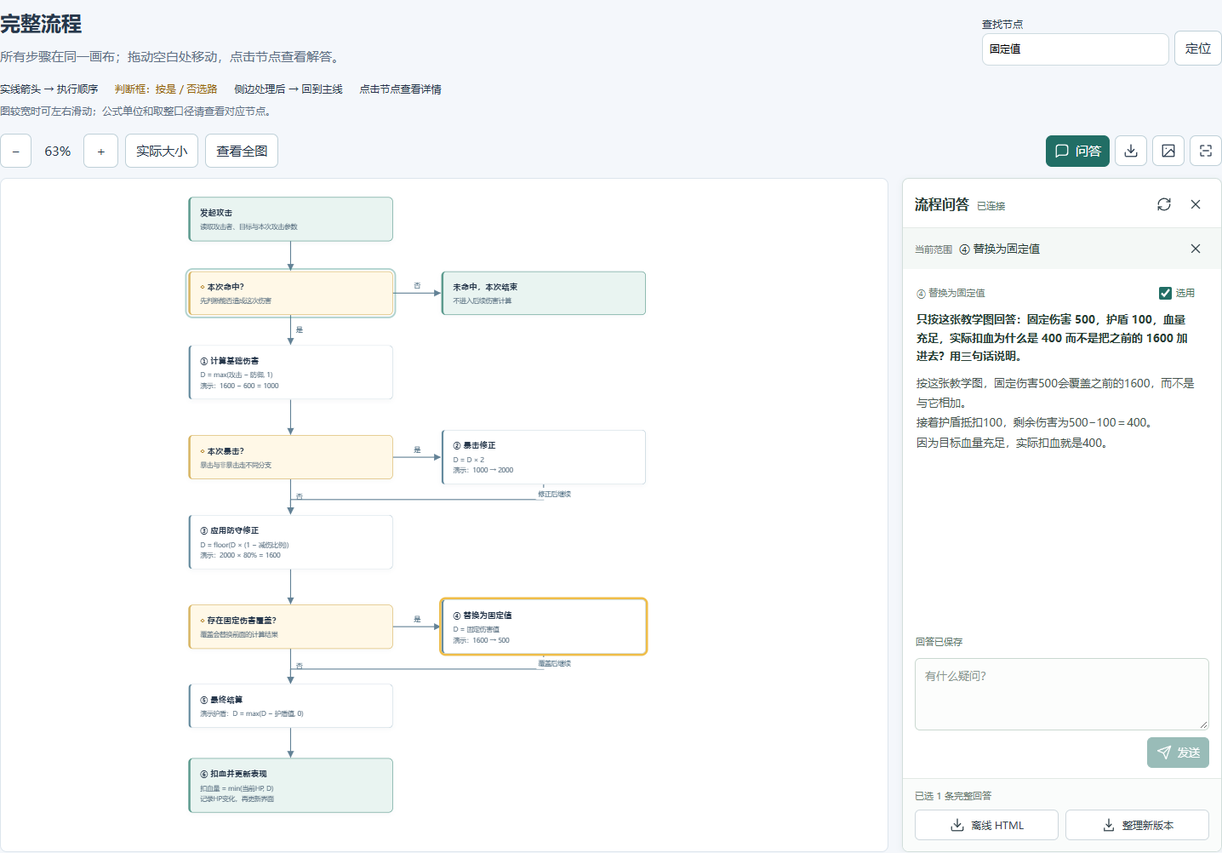
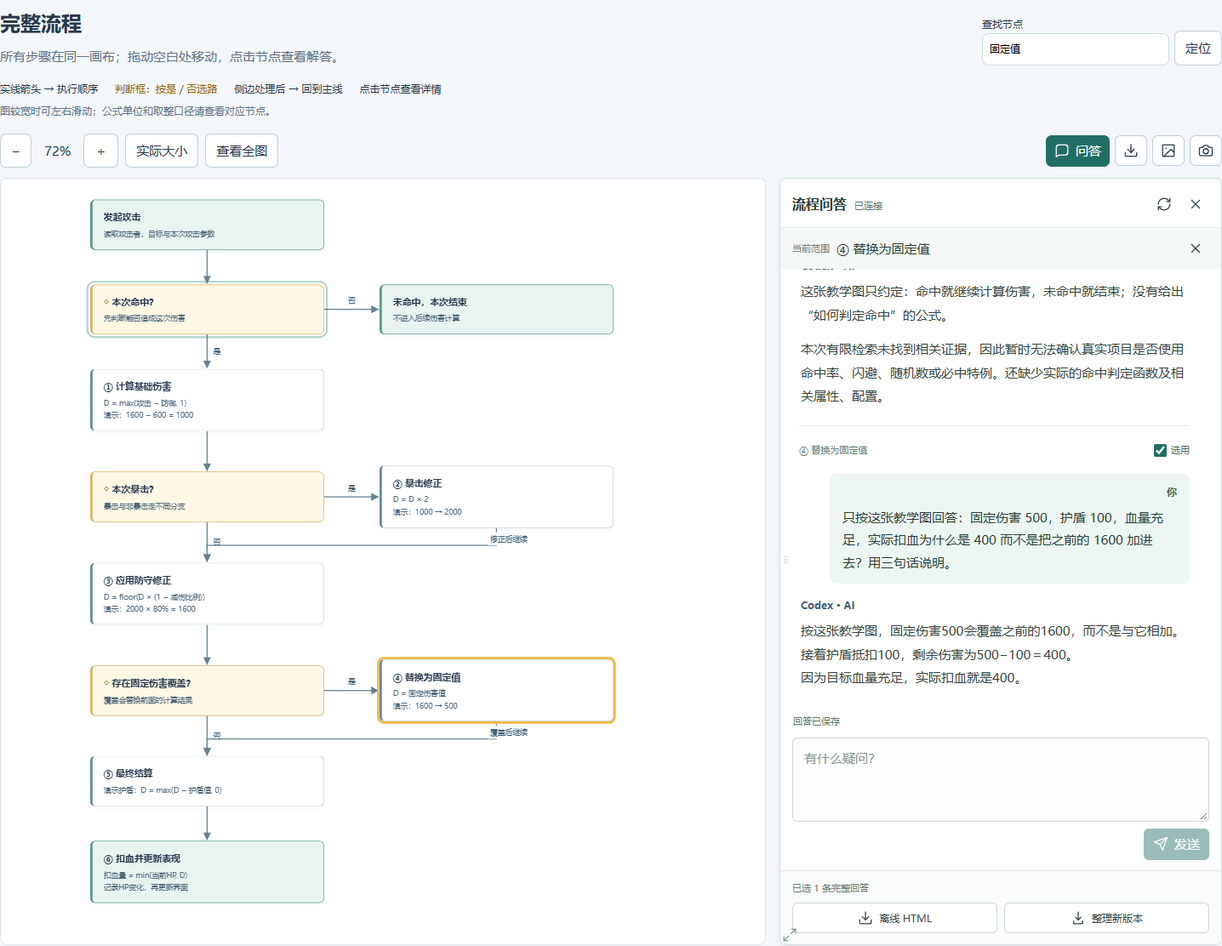
Improve flow zoom and readable resizable in-page Q&A

diff --git a/project-handbook/assets/flow-assistant.js b/project-handbook/assets/flow-assistant.js
@@ -34,7 +34,9 @@
       send: ['m22 2-7 20-4-9-9-4Z', 'M22 2 11 13'],
       download: ['M21 15v4a2 2 0 0 1-2 2H5a2 2 0 0 1-2-2v-4', 'm7 10 5 5 5-5', 'M12 15V3'],
       image: ['M4 3h16a1 1 0 0 1 1 1v16a1 1 0 0 1-1 1H4a1 1 0 0 1-1-1V4a1 1 0 0 1 1-1Z', 'm21 15-5-5L5 21', 'M8.5 8.5h.01'],
-      scan: ['M4 9V5a1 1 0 0 1 1-1h4', 'M15 4h4a1 1 0 0 1 1 1v4', 'M20 15v4a1 1 0 0 1-1 1h-4', 'M9 20H5a1 1 0 0 1-1-1v-4', 'M8 12h8'],
+      camera: ['M14.5 4h-5L7 7H4a2 2 0 0 0-2 2v9a2 2 0 0 0 2 2h16a2 2 0 0 0 2-2V9a2 2 0 0 0-2-2h-3z', 'M16 13a4 4 0 1 1-8 0 4 4 0 0 1 8 0'],
+      grip: ['M9 5h.01', 'M9 12h.01', 'M9 19h.01', 'M15 5h.01', 'M15 12h.01', 'M15 19h.01'],
+      resize: ['M15 3h6v6', 'm21 3-7 7', 'M3 15v6h6', 'm3 21 7-7'],
       refresh: ['M3 12a9 9 0 0 1 15.36-6.36L21 8', 'M21 3v5h-5', 'M21 12a9 9 0 0 1-15.36 6.36L3 16', 'M8 16H3v5'],
       compile: ['M12 3v12', 'm8 11 4 4 4-4', 'M5 17v4h14v-4'],
       stop: ['M6 6h12v12H6z']
@@ -47,6 +49,7 @@
     }
     function icon(name) {
       const svg = document.createElementNS('http://www.w3.org/2000/svg', 'svg');
+      svg.dataset.icon = name;
       for (const [key, value] of Object.entries({viewBox: '0 0 24 24', width: 18, height: 18, fill: 'none', stroke: 'currentColor', 'stroke-width': 1.8, 'stroke-linecap': 'round', 'stroke-linejoin': 'round', 'aria-hidden': 'true'})) svg.setAttribute(key, value);
       for (const d of icons[name]) {
         const path = document.createElementNS(svg.namespaceURI, 'path'); path.setAttribute('d', d); svg.append(path);
@@ -76,13 +79,16 @@
     const toggle = button('flow-qa-toggle', '问答', 'chat', true);
     const share = button('flow-qa-share', '导出离线 HTML', 'download');
     const pngFull = button('flow-qa-png-full', '导出全图 PNG', 'image');
-    const pngView = button('flow-qa-png-view', '导出当前视图 PNG', 'scan');
+    const pngView = button('flow-qa-png-view', '导出当前视图 PNG', 'camera');
     tools.append(toggle, share, pngFull, pngView); toolbar.append(tools);
     const shell = element('div', 'flow-qa-shell');
     viewportElement.before(shell); shell.append(viewportElement);
     const aside = element('aside', 'flow-qa-panel');
     aside.id = 'flow-qa-panel'; aside.hidden = true; aside.setAttribute('aria-label', '流程问答');
     toggle.setAttribute('aria-controls', aside.id); toggle.setAttribute('aria-expanded', 'false');
+    const widthHandle = button('flow-qa-resize-width', '拖动调整问答宽度', 'grip');
+    const cornerHandle = button('flow-qa-resize-corner', '拖动调整问答大小', 'resize');
+    const topHandle = button('flow-qa-resize-top', '拖动调整问答高度', 'grip');
     const head = element('div', 'flow-qa-header');
     const heading = element('div', 'flow-qa-heading');
     const badge = element('span', 'flow-qa-badge', live ? '检查中' : '离线副本');
@@ -111,7 +117,50 @@
     const compile = button('flow-qa-compile', '整理新版本', 'compile', true);
     compile.title = '将选中的回答整理成完整版本，保留原版';
     const footerActions = element('div', 'flow-qa-footer-actions'); footerActions.append(exportButton, compile);
-    footer.append(count, footerActions); aside.append(head, context, transcript, result, status, form, footer); shell.append(aside);
+    footer.append(count, footerActions); aside.append(head, context, transcript, result, status, form, footer, widthHandle, cornerHandle, topHandle); shell.append(aside);
+    let panelWidth = null, panelHeight = null, mobileHeight = null;
+    const isNarrow = () => window.matchMedia('(max-width:800px)').matches;
+    function resizePanel(newWidth, newHeight) {
+      if (isNarrow()) {
+        if (newHeight !== undefined) mobileHeight = Math.max(Math.min(440, innerHeight - 16), Math.min(innerHeight - 16, newHeight));
+        shell.style.setProperty('--flow-qa-mobile-height', mobileHeight === null ? '86dvh' : mobileHeight + 'px');
+      } else {
+        const maximum = Math.max(320, shell.clientWidth - 276);
+        if (newWidth !== undefined) panelWidth = newWidth;
+        if (newHeight !== undefined) panelHeight = newHeight;
+        shell.style.setProperty('--flow-qa-width', Math.max(320, Math.min(maximum, panelWidth ?? 520)) + 'px');
+        shell.style.setProperty('--flow-qa-height', Math.max(480, Math.min(1400, panelHeight ?? innerHeight * .82)) + 'px');
+      }
+    }
+    for (const [handle, kind] of [[widthHandle, 'width'], [cornerHandle, 'corner'], [topHandle, 'top']]) {
+      let resizing = null;
+      handle.addEventListener('pointerdown', event => {
+        if (event.button !== 0) return;
+        event.preventDefault();
+        const bounds = aside.getBoundingClientRect();
+        resizing = {x: event.clientX, y: event.clientY, width: bounds.width, height: bounds.height};
+        handle.setPointerCapture(event.pointerId); shell.classList.add('flow-qa-resizing');
+      });
+      handle.addEventListener('pointermove', event => {
+        if (!resizing) return;
+        resizePanel(kind === 'top' ? undefined : resizing.width + resizing.x - event.clientX,
+          kind === 'width' ? undefined : resizing.height + (kind === 'top' ? resizing.y - event.clientY : event.clientY - resizing.y));
+      });
+      const end = () => {resizing = null; shell.classList.remove('flow-qa-resizing');};
+      handle.addEventListener('pointerup', end); handle.addEventListener('pointercancel', end); handle.addEventListener('lostpointercapture', end);
+      handle.addEventListener('keydown', event => {
+        const horizontal = kind !== 'top' && ['ArrowLeft', 'ArrowRight'].includes(event.key);
+        const vertical = kind !== 'width' && ['ArrowUp', 'ArrowDown'].includes(event.key);
+        if (!horizontal && !vertical) return;
+        event.preventDefault();
+        const bounds = aside.getBoundingClientRect();
+        resizePanel(horizontal ? bounds.width + (event.key === 'ArrowLeft' ? 32 : -32) : undefined,
+          vertical ? bounds.height + ((event.key === (kind === 'top' ? 'ArrowUp' : 'ArrowDown')) ? 32 : -32) : undefined);
+      });
+    }
+    window.addEventListener('resize', () => resizePanel());
+    const shellObserver = new ResizeObserver(() => resizePanel()); shellObserver.observe(shell);
+    resizePanel();
     const dialog = document.getElementById('detail');
     if (dialog) {
       const askNode = button('flow-qa-ask-node flow-qa-primary', '追问这个节点', 'chat', true);
@@ -132,8 +181,15 @@
     }
     function readinessSummary() {
       if (connected) return '已连接本地问答';
-      const summary = available ? 'Codex 可用；首个问题将尝试连接' : '问答暂不可用；可阅读与导出';
-      return summary + (backendMessage ? '。' + backendMessage : '');
+      const problem = connectionProblem();
+      if (problem) return problem;
+      return available ? 'Codex 可用；首个问题将尝试连接' : '问答暂不可用；可阅读与导出';
+    }
+    function connectionProblem() {
+      if (/sign.?in|log.?in|auth/i.test(backendMessage)) return '请先在本机 Codex 登录，再重试提问。';
+      if (/cannot verify|cannot enforce|unavailable|no model turn/i.test(backendMessage)) return '暂时无法建立安全连接；请检查本机 Codex 后重试。已有内容仍可阅读和导出。';
+      if (/timed out|unexpectedly|failed|rejected/i.test(backendMessage)) return 'Codex 连接暂时失败，请稍后重试。已有内容仍可阅读和导出。';
+      return '';
     }
     function updateControls() {
       const busy = !!active || externalBusy;
@@ -165,6 +221,21 @@
       nodeId = node ? node.id : null;
       contextText.textContent = node ? node.title : '整个流程'; clearContext.hidden = !node;
     }
+    const markdown = typeof window.markdownit === 'function' ? window.markdownit({html: false, linkify: false, breaks: true}) : null;
+    if (markdown) {
+      // Model output can format text, but cannot load images, links or raw HTML.
+      markdown.renderer.rules.image = (tokens, index) => markdown.utils.escapeHtml(tokens[index].content);
+      markdown.renderer.rules.link_open = () => '<span>';
+      markdown.renderer.rules.link_close = () => '</span>';
+      markdown.renderer.rules.table_open = () => '<div class="flow-qa-table"><table>';
+      markdown.renderer.rules.table_close = () => '</table></div>';
+    }
+    function renderAnswer(text) {
+      const answer = element('div', 'flow-qa-answer');
+      if (markdown) answer.innerHTML = markdown.render(text).trim();
+      else answer.textContent = text;
+      return answer;
+    }
     function renderEntries(scroll = false) {
       const nearBottom = transcript.scrollHeight - transcript.scrollTop - transcript.clientHeight < 90;
       const oldScroll = transcript.scrollTop;
@@ -184,7 +255,11 @@
         } else {
           meta.append(element('span', 'flow-qa-entry-state', entry.status === 'streaming' ? '回答中' : entry.status === 'cancelled' ? '已停止' : '未完成'));
         }
-        article.append(meta, element('h4', 'flow-qa-question', entry.question), element('div', 'flow-qa-answer', entry.answer || (entry.status === 'streaming' ? '…' : '暂无回答')));
+        const userMessage = element('div', 'flow-qa-message flow-qa-message-user');
+        userMessage.append(element('span', 'flow-qa-role flow-qa-role-user', '你'), element('h4', 'flow-qa-question', entry.question));
+        const assistantMessage = element('div', 'flow-qa-message flow-qa-message-assistant');
+        assistantMessage.append(element('span', 'flow-qa-role flow-qa-role-assistant', 'Codex · AI'), renderAnswer(entry.answer || (entry.status === 'streaming' ? '正在思考…' : '暂无回答')));
+        article.append(meta, userMessage, assistantMessage);
         transcript.append(article);
       }
       transcript.scrollTop = scroll || nearBottom ? transcript.scrollHeight : oldScroll;
@@ -201,7 +276,7 @@
     document.addEventListener('flow:node-selected', event => setNode(event.detail?.id));
     draft.addEventListener('input', updateControls);
     draft.addEventListener('keydown', event => {
-      if (event.key === 'Enter' && (event.ctrlKey || event.metaKey) && !event.isComposing) { event.preventDefault(); if (!send.disabled) form.requestSubmit(); }
+      if (event.key === 'Enter' && !event.shiftKey && !event.isComposing && event.keyCode !== 229) { event.preventDefault(); if (!send.disabled) form.requestSubmit(); }
     });
 
     async function request(endpoint, body, signal) {
@@ -241,7 +316,7 @@
         externalBusy = value.busy;
         updateReadiness(value.backend);
         if (readinessOnly) {
-          if (!connected && backendMessage && status.classList.contains('flow-qa-error')) setStatus(status.textContent + '；' + backendMessage, true);
+          if (!connected && connectionProblem() && status.classList.contains('flow-qa-error')) setStatus(connectionProblem(), true);
         } else {
           if (!quiet || !externalBusy) setStatus(externalBusy ? '已有任务正在处理' : readinessSummary(), !available);
           renderEntries();

diff --git a/project-handbook/assets/flow-assistant.css b/project-handbook/assets/flow-assistant.css
@@ -1,5 +1,5 @@
 .flow-qa-shell{display:grid;grid-template-columns:minmax(0,1fr);gap:0;align-items:start;min-width:0}
-.flow-qa-shell.flow-qa-open{grid-template-columns:minmax(0,1fr) 376px;gap:16px}
+.flow-qa-shell.flow-qa-open{grid-template-columns:minmax(0,1fr) var(--flow-qa-width,520px);gap:16px}
 .flow-qa-shell>#viewport{min-width:0;width:100%}
 .flow-qa-tools{display:flex;align-items:center;gap:6px;margin-left:auto}
 .flow-qa-button{font:inherit;letter-spacing:0;display:inline-flex;align-items:center;justify-content:center;gap:7px;min-width:36px;min-height:36px;border:1px solid #ced7dd;border-radius:6px;padding:7px 10px;background:#fff;color:#33434b;cursor:pointer;line-height:1.4;white-space:nowrap}
@@ -10,7 +10,14 @@
 .flow-qa-button:focus-visible,.flow-qa-draft:focus-visible,.flow-qa-pick input:focus-visible{outline:3px solid #80b8a9;outline-offset:2px}
 .flow-qa-button.flow-qa-primary,.canvas-tools .flow-qa-toggle[aria-expanded=true]{background:#216e65;border-color:#216e65;color:#fff}
 .flow-qa-button.flow-qa-primary:hover:not(:disabled){background:#195c54}
-.flow-qa-panel{height:72vh;min-height:400px;max-height:960px;display:flex;flex-direction:column;min-width:0;background:#fff;border:1px solid #d2dedb;border-radius:8px;overflow:hidden;box-shadow:0 2px 8px #233b3210;color:#273b35;font-size:13px;line-height:1.6;letter-spacing:0}
+.flow-qa-panel{position:relative;height:var(--flow-qa-height,82vh);min-height:480px;max-height:1400px;display:flex;flex-direction:column;min-width:0;background:#fff;border:1px solid #d2dedb;border-radius:8px;overflow:hidden;box-shadow:0 2px 8px #233b3210;color:#273b35;font-size:15px;line-height:1.7;letter-spacing:0}
+.flow-qa-shell.flow-qa-open>#viewport{height:var(--flow-qa-height,82vh)}
+.flow-qa-panel .flow-qa-resize-width,.flow-qa-panel .flow-qa-resize-corner,.flow-qa-panel .flow-qa-resize-top{position:absolute;z-index:2;min-width:0;min-height:0;padding:0;border:0;background:transparent;touch-action:none;color:#7c9b91}
+.flow-qa-panel .flow-qa-resize-width{left:0;top:16px;bottom:20px;width:12px;cursor:ew-resize}
+.flow-qa-panel .flow-qa-resize-width svg{width:12px;height:22px}
+.flow-qa-panel .flow-qa-resize-corner{left:0;bottom:0;width:22px;height:22px;cursor:nesw-resize}
+.flow-qa-panel .flow-qa-resize-top{display:none}
+.flow-qa-resizing{user-select:none}
 .flow-qa-panel[hidden],.flow-qa-panel [hidden],.flow-qa-tools [hidden]{display:none!important}
 .flow-qa-header{display:flex;align-items:center;gap:5px;padding:14px 14px 11px;border-bottom:1px solid #e4eae7;flex-shrink:0}
 .flow-qa-heading{display:flex;align-items:baseline;gap:9px;flex:1;min-width:0;flex-wrap:wrap}
@@ -23,7 +30,7 @@
 .flow-qa-context{display:flex;align-items:center;gap:8px;background:#f4f8f6;padding:8px 14px;flex-shrink:0;min-width:0}
 .flow-qa-context-label{font-size:11px;color:#718079;flex:none}
 .flow-qa-context>span:nth-child(2){min-width:0;overflow-wrap:anywhere;line-height:1.4;flex:1}
-.flow-qa-transcript{flex:1;min-height:72px;overflow:auto;overscroll-behavior:contain;scrollbar-gutter:stable;padding:0 16px}
+.flow-qa-transcript{flex:1;min-height:72px;overflow:auto;overscroll-behavior:contain;scrollbar-gutter:stable;padding:0 22px}
 .flow-qa-transcript:focus-visible{outline:2px solid #80b8a9;outline-offset:-2px}
 .flow-qa-entry{display:block;background:transparent;border:0;border-radius:0;box-shadow:none;margin:0;padding:16px 0 18px;border-bottom:1px solid #e4eae7;overflow-wrap:anywhere}
 .flow-qa-entry:last-child{border-bottom:0}
@@ -32,13 +39,34 @@
 .flow-qa-entry-state{flex:none;color:#9c6b24}
 .flow-qa-pick{display:inline-flex;align-items:center;gap:5px;cursor:pointer;white-space:nowrap;flex:none;min-height:24px;color:#49735f}
 .flow-qa-pick input{appearance:auto;display:inline-block;width:15px;height:15px;min-width:15px;margin:0;padding:0;accent-color:#216e65;border-radius:3px;cursor:pointer}
-.flow-qa-question{font-size:13px;font-weight:650;line-height:1.65;margin:0 0 9px;color:#263d34;white-space:pre-wrap;overflow-wrap:anywhere;letter-spacing:0}
-.flow-qa-answer{font-size:13px;line-height:1.8;white-space:pre-wrap;overflow-wrap:anywhere;color:#485650}
+.flow-qa-message{min-width:0;margin-top:16px}
+.flow-qa-message-user{margin-left:36px;padding:12px 15px;background:#edf6f2;border-radius:8px}
+.flow-qa-message-assistant{padding:0 2px 2px}
+.flow-qa-role{display:block;font-size:12px;font-weight:650;line-height:1.5;margin-bottom:8px;color:#216e65}
+.flow-qa-role-user{text-align:right;color:#426b5c}
+.flow-qa-role-assistant{color:#416079}
+.flow-qa-question{font-size:15px;font-weight:500;line-height:1.75;margin:0;color:#263d34;white-space:pre-wrap;overflow-wrap:anywhere;letter-spacing:0}
+.flow-qa-answer{font-size:15px;line-height:1.85;white-space:normal;overflow-wrap:anywhere;color:#33443d}
+.flow-qa-answer p{font:inherit;color:inherit;margin:0 0 12px}
+.flow-qa-answer>:last-child{margin-bottom:0}
+.flow-qa-answer h1,.flow-qa-answer h2,.flow-qa-answer h3,.flow-qa-answer h4{font-size:17px;line-height:1.6;letter-spacing:0;margin:16px 0 8px}
+.flow-qa-answer ol,.flow-qa-answer ul{margin:8px 0 14px;padding-left:24px;list-style:decimal}
+.flow-qa-answer ul{list-style:disc}
+.flow-qa-answer li{background:none;border:0;padding:2px 0;margin:3px 0;position:static}
+.flow-qa-answer li+li:before{content:none}
+.flow-qa-answer code{font:13px/1.75 Consolas,"Courier New",monospace;background:#edf2f5;color:#405968;padding:2px 4px;border-radius:3px;overflow-wrap:anywhere}
+.flow-qa-answer pre{margin:12px 0;padding:12px 14px;background:#f3f6f8;border:1px solid #e1e7eb;border-radius:6px;white-space:pre-wrap;overflow-wrap:anywhere}
+.flow-qa-answer pre code{padding:0;background:transparent}
+.flow-qa-answer blockquote{margin:12px 0;border-left:3px solid #a1b9b0;padding-left:14px;color:#62766c}
+.flow-qa-table{max-width:100%;overflow:auto;margin:12px 0}
+.flow-qa-table table{border-collapse:collapse;width:100%;font-size:14px}
+.flow-qa-table th,.flow-qa-table td{padding:7px 10px;border:1px solid #dce6e1;text-align:left;min-width:64px}
+.flow-qa-table th{background:#f3f7f5}
 .flow-qa-empty{font-size:13px;text-align:center;color:#849189;margin:42px 0}
 .flow-qa-status{flex-shrink:0;margin:0;padding:9px 15px 5px;color:#60776b;font-size:11px;line-height:1.5;overflow-wrap:anywhere;max-height:72px;overflow:auto}
 .flow-qa-status.flow-qa-error{color:#a14332}
 .flow-qa-form{padding:6px 14px 12px;flex-shrink:0;margin:0}
-.flow-qa-draft{display:block;resize:vertical;min-height:74px;max-height:140px;width:100%;min-width:0;border:1px solid #cad8d0;border-radius:6px;padding:9px 11px;background:#fcfdfc;color:#263b32;font:13px/1.65 "Microsoft YaHei",system-ui,sans-serif;letter-spacing:0;overflow-wrap:anywhere}
+.flow-qa-draft{display:block;resize:vertical;min-height:88px;max-height:160px;width:100%;min-width:0;border:1px solid #cad8d0;border-radius:6px;padding:11px 13px;background:#fcfdfc;color:#263b32;font:15px/1.65 "Microsoft YaHei",system-ui,sans-serif;letter-spacing:0;overflow-wrap:anywhere}
 .flow-qa-draft::placeholder{color:#88968f}
 .flow-qa-actions{display:flex;align-items:center;justify-content:flex-end;gap:7px;margin-top:8px;min-height:36px}
 .flow-qa-cancel{color:#9a4234}
@@ -50,12 +78,16 @@
 .flow-qa-result a{color:#216e65;font-size:13px;font-weight:600;text-underline-offset:3px}
 .flow-qa-ask-node{margin-top:18px;font-size:14px}
 @media(max-width:1050px){
-  .flow-qa-shell.flow-qa-open{grid-template-columns:minmax(0,1fr) 340px;gap:12px}
+  .flow-qa-shell.flow-qa-open{gap:12px}
 }
 @media(max-width:800px){
   .flow-qa-shell.flow-qa-open{display:block}
-  .flow-qa-panel{position:fixed;z-index:20;left:0;right:0;bottom:0;width:100%;height:min(78dvh,760px);max-height:calc(100dvh - 28px);min-height:0;border-radius:8px 8px 0 0;border-bottom:0;box-shadow:0 -8px 30px #21362c24;padding-bottom:env(safe-area-inset-bottom)}
-  .flow-qa-header{padding-top:12px}
+  .flow-qa-panel{position:fixed;z-index:20;left:0;right:0;bottom:0;width:100%;height:var(--flow-qa-mobile-height,86dvh);max-height:calc(100dvh - 16px);min-height:0;border-radius:8px 8px 0 0;border-bottom:0;box-shadow:0 -8px 30px #21362c24;padding-bottom:env(safe-area-inset-bottom)}
+  .flow-qa-shell.flow-qa-open>#viewport{height:72vh}
+  .flow-qa-panel .flow-qa-resize-width,.flow-qa-panel .flow-qa-resize-corner{display:none}
+  .flow-qa-panel .flow-qa-resize-top{display:flex;top:0;left:0;width:100%;height:14px;cursor:ns-resize}
+  .flow-qa-resize-top svg{transform:rotate(90deg);width:24px;height:12px}
+  .flow-qa-header{padding-top:20px}
   .flow-qa-tools{margin-left:0;gap:5px}
   .flow-qa-draft{resize:none;min-height:65px;max-height:94px;font-size:16px;line-height:1.45}
   .flow-qa-form{padding-bottom:9px}
@@ -64,7 +96,7 @@
   .flow-qa-status{max-height:52px}
 }
 @media(max-height:520px) and (max-width:800px){
-  .flow-qa-panel{height:calc(100dvh - 12px);max-height:none}
+  .flow-qa-panel{height:var(--flow-qa-mobile-height,calc(100dvh - 16px))}
   .flow-qa-context,.flow-qa-badge{display:none}
   .flow-qa-header{padding-block:5px}
   .flow-qa-draft{min-height:45px;height:45px}

diff --git a/project-handbook/assets/flow.js b/project-handbook/assets/flow.js
@@ -7,6 +7,16 @@ function svg(tag,attrs,text){const e=document.createElementNS(ns,tag);for(const 
 function showDetail(n){$('detail-title').textContent=n.title;$('detail-formula').textContent=n.lines;$('detail-text').textContent=n.detail;const source=data.sources.find(s=>s.id===n.source);$('source').textContent=source?source.locator+'\n\n'+(source.excerpt||'分享副本未附原始摘录。'):'未附来源';document.dispatchEvent(new CustomEvent('flow:node-selected',{detail:{id:n.id}}));$('detail').showModal();}
 function zoom(value,center=true){const old=scale, x=(viewport.scrollLeft+viewport.clientWidth/2)/old,y=(viewport.scrollTop+viewport.clientHeight/2)/old;const minimum=Math.min(.1,(viewport.clientWidth-24)/width,(viewport.clientHeight-24)/height);scale=Math.max(minimum,Math.min(2,value));$('canvas').style.transform=`scale(${scale})`;$('stage').style.width=width*scale+'px';$('stage').style.height=height*scale+'px';$('zoom-value').textContent=(scale<.01?(scale*100).toFixed(2):Math.round(scale*100))+'%';if(center){viewport.scrollLeft=x*scale-viewport.clientWidth/2;viewport.scrollTop=y*scale-viewport.clientHeight/2;}}
 function fit(){zoom(Math.min(1,(viewport.clientWidth-24)/width,(viewport.clientHeight-24)/height),false);viewport.scrollLeft=0;viewport.scrollTop=0;}
+viewport.addEventListener('wheel',event=>{
+ if(!event.ctrlKey||!event.deltaY)return;
+ event.preventDefault();
+ const before=$('canvas').getBoundingClientRect(),x=(event.clientX-before.left)/scale,y=(event.clientY-before.top)/scale;
+ const delta=event.deltaY*(event.deltaMode===1?16:event.deltaMode===2?viewport.clientHeight:1);
+ zoom(scale*Math.exp(-Math.max(-300,Math.min(300,delta))*.002),false);
+ const after=$('canvas').getBoundingClientRect();
+ viewport.scrollLeft+=after.left+x*scale-event.clientX;
+ viewport.scrollTop+=after.top+y*scale-event.clientY;
+},{passive:false});
 function clearRoute(points,obstacles){
  return points.slice(1).every((b,i)=>{const a=points[i];return obstacles.every(r=>{
   const left=r.x-5,right=r.x+r.w+5,top=r.y-5,bottom=r.y+r.h+5;

diff --git a/tests/test_flow.py b/tests/test_flow.py
@@ -17,7 +17,7 @@ class FlowTests(unittest.TestCase):
 
     def test_portable_and_no_review(self):
         page = flow.render(self.data)
-        self.assertNotIn('@@', page)
+        self.assertNotRegex(page, r'@@[A-Z]+@@')
         self.assertNotIn('id="review"', page)
         self.assertNotIn('href="#review"', page)
         self.assertIn('activateNavigation', page)
@@ -30,6 +30,7 @@ class FlowTests(unittest.TestCase):
         page = flow.render(self.data)
         self.assertIn('flow:node-selected', page)
         self.assertIn('html2canvas', page)
+        self.assertIn('markdownit', page)
         self.assertIn('flow-qa-panel', page)
         self.assertNotRegex(page, r'<script[^>]+src="https?://')
 
@@ -99,7 +100,7 @@ class FlowTests(unittest.TestCase):
         self.assertIn('非项目代码摘录', data['sources'][0]['locator'])
         self.assertNotRegex(text, r'https?://|[A-Za-z]:[\\/]|m_[A-Z]')
         self.assertEqual(len(data['examples']), 3)
-        self.assertNotIn('@@', page)
+        self.assertNotRegex(page, r'@@[A-Z]+@@')
         base = max(1600 - 600, 1)
         reduced = base * 2 * 80 // 100
         normal = max(reduced - 100, 0)

diff --git a/project-handbook/scripts/flow_server.py b/project-handbook/scripts/flow_server.py
@@ -48,6 +48,11 @@ def make_context(data, node_id, question, history):
     return (
         'You answer follow-up questions about an authored project flow for a newcomer. '
         'Reply in the language of the question, clearly and briefly, with a concrete example when useful. '
+        'Start with a direct plain-language conclusion. Explain the rule as if speaking to a new teammate, '
+        'then give short steps or one numerical example. Explain what a technical field means before naming it. '
+        'Put filenames and line references at the end of the explanation, not inside every sentence. '
+        'Use short paragraphs and simple Markdown formatting when helpful; avoid raw HTML, dense jargon, '
+        'unexplained variable dumps, and lengthy disclaimers. Keep necessary evidence limitations clear and brief. '
         'Use the supplied analysis first. Distinguish facts from teaching examples and unverified claims. '
         'When evidence is missing, output ONLY LOOKUP_REQUEST: followed by a few relevant search terms '
         '(include likely field/function names when known). The host will perform a bounded read-only search. '

diff --git a/project-handbook/scripts/build_flow.py b/project-handbook/scripts/build_flow.py
@@ -119,7 +119,7 @@ def render(data):
         'TITLE': esc(data['title']), 'HEADER': header, 'NAV': nav, 'EXAMPLES': examples,
         'CSS': '\n'.join((ASSETS / name).read_text(encoding='utf-8') for name in ('flow.css', 'flow-assistant.css')),
         'JS': '\n;\n'.join((ASSETS / name).read_text(encoding='utf-8').replace('</script', '<\\/script')
-                            for name in ('vendor/html2canvas.min.js', 'flow.js', 'flow-assistant.js')),
+                            for name in ('vendor/html2canvas.min.js', 'vendor/markdown-it.min.js', 'flow.js', 'flow-assistant.js')),
         'DATA': json.dumps(data, ensure_ascii=False).replace('<', '\\u003c'),
     }
     template = (ASSETS / 'flow-template.html').read_text(encoding='utf-8')

diff --git a/project-handbook/references/flow-qa.md b/project-handbook/references/flow-qa.md
@@ -39,12 +39,19 @@ This is a dedicated ephemeral Codex context, not the active desktop task.
 
 - A node's **追问这个节点** button opens the Q&A panel with that node selected.
   The general Q&A button also accepts questions about the entire flow.
+- Enter sends; Shift+Enter inserts a newline, and IME composition must not send.
+  The panel resizes from its left edge/corner, or its top edge on narrow screens.
+  Keep user questions distinct from AI answers and retain formatted Markdown in
+  offline exports without executing answer HTML or loading external content.
 - The model answers from authored details and recent completed answers first.
   Missing evidence can trigger one bounded host-side keyword lookup within
   authorized text/code directories, followed by an answer with relative source
   citations. No project code runs, no source files change, and the model has no
   external-action tools. This is not exhaustive semantic code search; missing
   results are an evidence gap, not proof that a behavior does not exist.
+- Answer in the reader's language with a direct conclusion and short steps or
+  one numeric example. Explain technical terms before naming code fields and
+  place source citations at the end; do not bury the answer under jargon.
 - HTML stays unchanged during Q&A. Completed, failed and cancelled entries are
   saved locally in `.flow-session.json`; only completed answers can be selected.
   Browser refresh restores history. Drafts and partial answers are not compiled.

diff --git a/README.md b/README.md
@@ -38,7 +38,7 @@ https://github.com/GXGXX/project-handbook/tree/main/project-handbook
 ![游戏伤害整体流程：命中、基础伤害、暴击、减伤、固定覆盖、结算与扣血](docs/images/damage-flow.png)
 
 - **查看全图**：一次看到整个流程及连线。
-- **缩放与拖动**：放大看局部，拖动空白处移动画布。
+- **缩放与拖动**：按住 Ctrl 滚动鼠标滚轮，放大或缩小鼠标所在位置；拖动空白处移动画布。
 - **查找并定位**：输入节点名称或字段，定位到对应步骤。
 - **点击节点**：查看该步骤做什么、为什么、依据是什么。
 - **数值走一遍**：跟着具体输入，看每一步如何得到最终结果。
@@ -58,6 +58,8 @@ https://github.com/GXGXX/project-handbook/tree/main/project-handbook
 ```
 
 回答会逐步显示，问答记录会保存在本机。已有分析不足时，会在你提供的目录内只读检索相关片段；查不到会说明，不会把猜测当成结论。追问不会重新生成整张图。
+
+按 **Enter** 发送，**Shift+Enter** 换行。拖动问答窗口左侧或左下角可调整大小；手机上可拖动顶部调整高度。自己的提问和 **Codex · AI** 的回答分开显示，公式、列表和代码会按格式排版。
 
 ![在伤害流程页面中追问固定伤害，直接阅读回答并选择整理或分享](docs/images/damage-qa.png)
 
